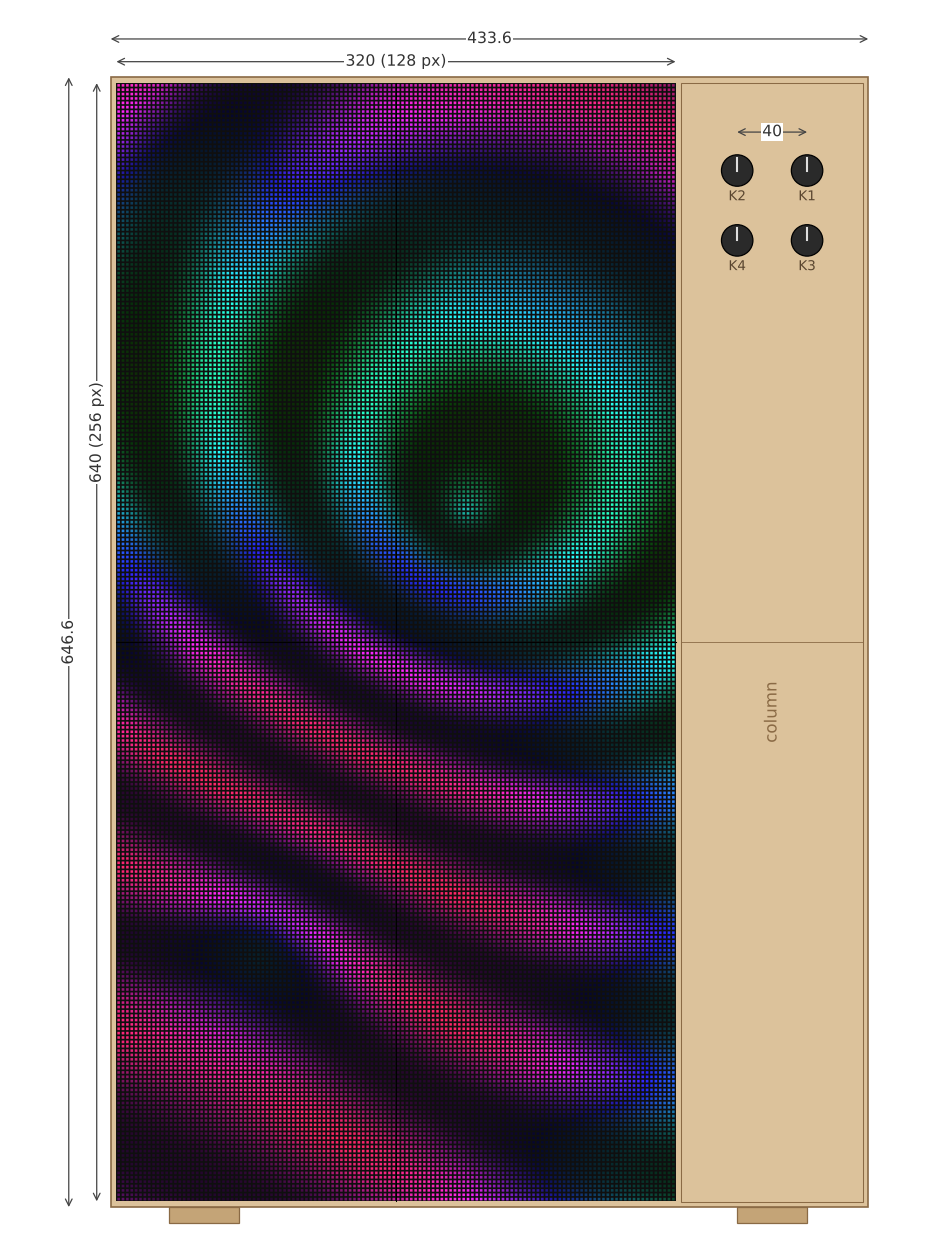
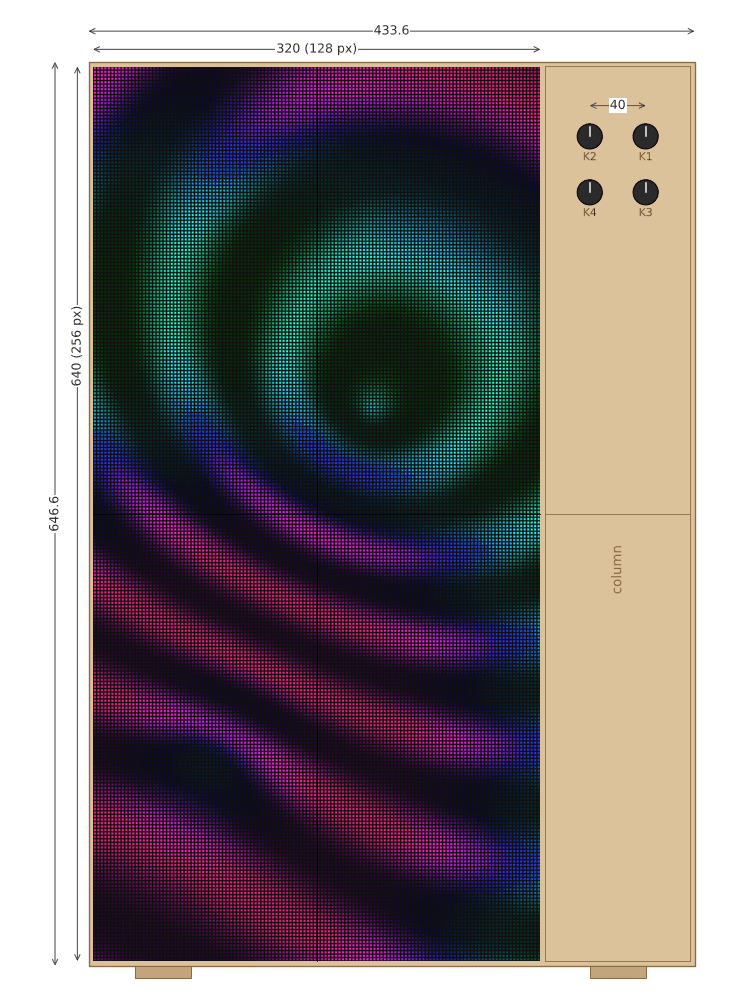
docs: README, BOM and map rows for the 2x2 case
Claude-Session: https://claude.ai/code/session_01S7a4vLmi28RsjdaHrYu6Dv

diff --git a/hardware/case/remixes/big-2x2/source/previews.py b/hardware/case/remixes/big-2x2/source/previews.py
@@ -95,8 +95,12 @@ def front(b, path):
     ax.set_aspect("equal")
     ax.axis("off")
     fig.tight_layout()
-    fig.savefig(path, dpi=150)
+    fig.savefig(path, dpi=120)
     plt.close(fig)
+    # 256 colours keep the LED texture and a third of the bytes (Pillow comes
+    # with matplotlib)
+    from PIL import Image
+    Image.open(path).convert("RGB").quantize(256, dither=Image.Dither.NONE).save(path, optimize=True)
 
 
 def _wire(ax, pts, color, lw=1.2, z=8, ls="-"):

diff --git a/hardware/case/remixes/big-2x2/README.md b/hardware/case/remixes/big-2x2/README.md
@@ -1,0 +1,125 @@
+Author: Patternflow, https://patternflow.work
+License: CC-BY-SA-4.0
+Based on: Patternflood desktop Rev 2.7 by jof, https://github.com/jof/patternflood (CC BY-SA 4.0)
+Fits: no Patternflow board; four 320 × 160 mm P2.5 panels driven by a Raspberry Pi 5 with a Colorlight 5A-75B
+Material: 3 mm plywood, laser cut, 0.15 mm kerf compensated; eight 600 × 300 mm sheets
+Verified: not built yet. Drawn 2026-11-07, and `source/check.py` measures the cut files against the panel's drawing
+
+# Patternflow 2 × 2
+
+<img src="images/front.png" alt="The box from the front: four panels in a 2 × 2, 320 wide and 640 tall, lit with a pattern of waves, and a plywood column on the right with four knobs at its top" width="42%"> <img src="images/back.png" alt="The box from the back with the cover off: the rails across the panels, the electronics plate in the middle with the Pi, the card and the fuse box, the supply and the inlet in the column" width="55%">
+
+Four of the panels the [build guide](../../../../BUILD_GUIDE.md#1-bill-of-materials-bom) links, two across and two down. That is 320 × 640 mm of LEDs, 256 × 128 of them, twice the stock Patternflow in each direction. The box stands the way the stock one does: panels upright, and a column on the right with the four knobs at its top. It is 433.6 mm wide, 646.6 tall and 81 deep, on two feet 200 mm long.
+
+It started from [Patternflood](https://github.com/jof/patternflood), jof's desktop build: four P2 64 × 64 panels in a laser-cut birch box 256 mm square, run by a Raspberry Pi 5 and a Colorlight 5A-75B card off mains. This one keeps those electronics. What four 128 × 64 panels change is drawn again here: where everything sits, how much power it takes, and the box around it.
+
+Nothing here has been cut. The drawings are checked against the panel's own drawing (the last section), and the first build is the one that says whether they fit.
+
+## Files
+
+| Path | What |
+| --- | --- |
+| `sheets/sheet-1.dxf` to `sheet-8.dxf` | The box, every part nested on eight 600 × 300 mm sheets. The `.svg` beside each has the same cuts in red and the part names in blue, in a group not to cut |
+| `sheets/test-cuts.dxf` | Cut this first: a coupon with the box's holes, a slot with its key, and a template of one panel's back |
+| `dxf/` | One file per part: the box's 47 and the three test pieces. Each is drawn as seen from outside the box, or from the back for the parts behind the panels |
+| [`bom.csv`](bom.csv) | Everything to buy, fasteners included |
+| `images/` | The pictures on this page |
+| `source/big2x2.py` | Draws all of the above. `--thickness` and `--kerf` redraw it for your sheet and your laser |
+| `source/check.py` | Opens every DXF and measures it against the panel |
+
+<img src="images/sheets.png" alt="The eight sheets, each part outlined and named" width="100%">
+
+## The panels and the card
+
+Seen from the front, the panels are the stock Patternflow's panel turned upright, two side by side and two more below them. Each one gets its own HUB75 output on the card: upper left on `J5`, upper right `J8`, lower left `J4`, lower right `J1`, the map patternflood's card already has. A panel's IN and OUT connectors sit near its two short ends. Turn the top two so their IN is at the bottom, and the lower two so theirs is at the top, and every ribbon runs about 10 cm to the middle of the box, where the card is.
+
+The card runs receiver75, Jim Bailey's open gateware, which patternflood builds and flashes once over JTAG. It is written for two 64 × 64 panels on each connector, refreshed at 500 Hz. To the card a 128 × 64 panel is those two panels chained, so each connector here should show two of its slots, `2n − 1` and `2n`. This is the least proven part of the design. Patternflood lit P2 panels with FM6124 drivers on it, and nobody has lit this panel on it yet. Try one panel on the card before buying four.
+
+## Why a Raspberry Pi and not the Patternflow board
+
+256 × 128 is 32,768 points of light. [rfc-any-resolution.md](../../../../docs/rfc-any-resolution.md#28-the-limits) puts what one ESP32-S3 drives at 8,192 at colour depth 8, the stock panel's own memory, and this is four times that. The driver keeps two buffers of every row in internal DMA RAM, 2 × W × H × 8 bytes: 524,288 bytes here, against 98,708 bytes of internal heap free on the stock panel, measured on 2026-08-18. One chain of four panels also shifts 512 pixels a row, so the refresh falls from the stock 325 Hz to 16,000,000 / (12 × 16,384) = 81 Hz. That flickers, and it bands on any phone.
+
+The card has eight outputs and drives them all at once, so four panels refresh as fast as one. The Pi has the gigabit Ethernet the card needs on its own board.
+
+What this gives up is the firmware. A `.pfm` module is ESP32-S3 machine code and does not run on a Pi, and the web console, OSC, MIDI and MQTT live in the firmware. [rfc-linux-player.md](../../../../docs/rfc-linux-player.md) is the plan for patterns on a Pi, and the Firmware section below lists what 256 × 128 needs from it. Until then, patternflood's own software runs here with a bigger frame map.
+
+## Knobs
+
+Four Adafruit 4991 I²C breakouts, each with the stock `PEC11R-4220F-S0024` soldered on, 24 detents a turn as on the board. Their bushings go through the column front in 7.2 mm holes on a 40 mm grid, and the nut that comes with each encoder clamps it from the front. A 3 mm doubler glued behind the front stiffens it, with a pocket for each encoder body. The stock printed knobs fit.
+
+| Knob | Where | 4991 address | Jumpers |
+| --- | --- | --- | --- |
+| K1 | top right | 0x37 | A0 |
+| K2 | top left | 0x38 | A1 |
+| K3 | bottom right | 0x39 | A0 + A1 |
+| K4 | bottom left | 0x3A | A2 |
+
+The places are the stock board's. Its encoders go in from the back, so `SW1`, on the left of the board's drawing, ends up on the right. The addresses are the range patternflood's tools look in. The four chain on STEMMA QT cables, and the last one runs to the Pi's header at 3.3 V through a 14 mm hole in the divider.
+
+## Power
+
+| Load | Draw |
+| --- | --- |
+| Four panels, each capped at 3.5 A a frame | 14 A |
+| Raspberry Pi 5 with the Active Cooler | 1.6 A, planned |
+| Colorlight 5A-75B | 0.8 A |
+| Four 4991s with their NeoPixels | 0.25 A |
+| In all | 16.7 A of the supply's 22 A |
+
+The stock panel draws about 1.9 A on an ordinary bright pattern and about 4.8 A on a white screen ([README, Power & runtime](../../../../README.md#power--runtime)). Four white screens and the boards come to about 22 A, all of a Mean Well LRS-150F-5, inside a closed box where its rating starts to fall at 40 °C. So whatever plays on it caps each frame's current before it goes out, as the stock firmware's power clamp does and as patternflood's renderer does. At 3.5 A a panel an ordinary pattern never meets the cap, and a white screen lands at about three quarters of full. The supply's hiccup mode is the backstop.
+
+Mains comes in through an IEC C14 inlet with a switch and a fuse, low on the right wall, and stays in the column: about 10 cm of 0.75 mm² wire to the supply's terminals. The fuse is time-delay, T3.15A at 220–240 V and T5A at 100–120 V. It is sized for the supply's 60 A cold-start inrush, not for its load, and a fast fuse trips at switch-on. As on patternflood, four things are not optional:
+
+1. A cover over the supply's input terminals. The back comes off with 28 screws, and L and N are open screws under it.
+2. Earth from the inlet to the supply's FG terminal.
+3. The time-delay fuse in the inlet.
+4. The mains leads tied down at the inlet, away from the 5 V side and the I²C lead.
+
+The supply lies on its side against the divider, base toward the front and terminals toward the back cover, with 41 mm of room above them for wiring. Two pairs of 1.5 mm² wire, one on each of its +V/−V terminal pairs, go through the divider to a 6-way blade fuse box with a negative bus on the electronics plate. That is the 5 V bus. It feeds the four panels through 7.5 A fuses on 0.75 mm² wire, the card through 3 A, and the Pi's USB-C pigtail through 5 A. The longest branch, to an upper panel, is about 50 cm and drops about 0.07 V at 3.5 A; the run to the fuse box drops another 0.08 V at full load. Trim the supply to 5.15 V measured at the fuse box, so the Pi sees at least 5.0 V. The pigtail does no USB-PD, so the Pi assumes a 3 A supply and warns: run `sudo rpi-eeprom-config -e` and add `PSU_MAX_CURRENT=5000`.
+
+This build has no Patternflow board in it, so the board's rule that `J4` is its only power input does not come into it.
+
+<img src="images/wiring.png" alt="Wiring: mains through the inlet to the LRS-150F-5, its 5 V to a 6-way fuse box, from there to the four panels, the card and the Pi; the Pi to the card over Ethernet and to the knobs over I²C; the card to the four panels over HUB75" width="100%">
+
+## The box
+
+<img src="images/section.png" alt="Two side sections: through the display, the panel, the rails, the rings, the plate with the Pi, the card and the fuse box, the stringers and the back cover; through the column, the knobs, the supply and the inlet" width="60%">
+
+Everything is 3 mm plywood. The four outer walls stand around the panels and the column, finger-jointed at the corners, and their front edges stand 3 mm proud of the LEDs to keep a knock off the panel edges. The left wall, the right wall and the divider between the panels and the column are each cut in two halves that meet at the middle, because 646 mm does not fit a 600 mm bed. The middle rail and the middle stringer pass through both halves of each and hold the joint.
+
+The panels hang on rails. Three run across the panel backs at the top, the middle and the bottom, each two sheets glued, through mortises in the left wall and the divider. The middle one goes on through the column to the right wall. Two more run down the vertical seam. M4 × 10 screws go through the rails into each panel's inserts: two at each short end, and four along the edge at the seam. The 3.48 mm pins on a panel's back drop into 5 mm holes in the seam rails. The screw holes are 6 mm slots, so each pair of panels can be pushed together before the screws are tightened. The seams are what shows most.
+
+Behind the middle of the panels, the electronics plate stands 12 mm off the rails on stacks of laser-cut rings, held by six M3 × 20 screws into nuts in the rails' front sheets. The card, the Pi and the fuse box go on its back face, components toward the back cover, where they can be reached with the cover off. The panel screws under the plate are reached with the plate off.
+
+The back cover is three pieces across the whole width, held by 28 M3 × 10 screws into nuts trapped in five stringers. A stringer is three sheets with the nuts in the middle one, and drops into notches in the back edges of the walls. Two feet, built the same way, screw on underneath from inside. Without them the box tips at about 7°; with them it takes about 17°. Air comes in through slots in the bottom wall and leaves through the top.
+
+## Cutting and building
+
+1. Measure the plywood in a few places. If it is not 3.0 mm, or your laser's kerf is not 0.15 mm, redraw everything with your numbers: `pip install -r source/requirements.txt`, then `python source/big2x2.py --thickness 3.18 --kerf 0.12`.
+2. Cut `sheets/test-cuts.dxf`. The key should push through the coupon's slot and hold, an M3 nut should sit in the hexagon, and the 7.2 mm hole should take the encoder's bushing without play. Lay the panel template on a panel's back: all twelve inserts should show through, and the two pins should drop into their holes. Then wire one panel to the card on the bench and get pixels on it.
+3. Cut the eight sheets. Label the parts as they come off; `images/sheets.png` names each one.
+4. Glue the layered parts: the rails, the seam rails, and the stringers and the feet with an M3 nut in each hexagon of their middle sheet. The rails' front sheets have nothing behind their nuts until the panels go on, so put a drop of glue on each.
+5. Build the box on its front. Thread the rails through the left wall halves and the divider halves, and the middle rail through the right wall halves too. Fit the column fronts into the divider and the right wall, with the doubler and the splice glued behind them. Then the top and bottom walls go on over the finger joints and the tabs. Drop the stringers into their notches, check that it is square, and glue.
+6. Panels in from the front, IN connectors toward the horizontal seam. Screw them to the rails with washers, pushing each pair together before tightening.
+7. The electronics plate: the card and the Pi on two rings a screw, then the fuse box, then the plate onto the rails.
+8. The column: the four knobs, the supply on the divider with two M3 × 6 (its side inserts take 5 mm at most), and the inlet.
+9. Wire it as the picture shows, with the ribbons last. Trim the supply to 5.15 V before the back goes on, and fit the feet.
+
+The supply's side inserts are taken from Mean Well's drawing, 22 and 139 mm from its terminal end, and the divider has holes for it both ways up. If neither set meets your supply, trust the supply and drill to it. The fuse box is held through two slots, since boxes differ.
+
+## Firmware
+
+What 256 × 128 asks of the software on this build:
+
+- receiver75's map is compiled for four 64 × 64 panels, one slot a connector (`QUADRANT_SLOTS` in its BIOS, and in patternflood's `r75_frame.py`). Here it is eight slots, two a connector, and a 256 × 128 canvas. The lower two panels are turned a half turn, so their slots are written rotated.
+- The current cap is patternflood's per-frame estimate with new numbers: 3.5 A a panel and 14 A in all, calibrated against one panel at full white on the card. The 4.8 A figure comes from the ESP32 driver, and the card may keep each row lit for longer.
+- `PatternRuntime` already takes a width and a height, and 46 of the 48 JS presets read the size from what `draw` is given ([rfc-linux-player.md §2.2](../../../../docs/rfc-linux-player.md#22-the-engine)). `DeviceSim` is the one place fixed at 128 × 64, through `PANEL_W` and `PANEL_H`. That change is k16 in [rfc-any-resolution.md](../../../../docs/rfc-any-resolution.md#26-the-site).
+- The Linux player's receiving-card output (rfc-linux-player.md §2.3, row 11) is written for the card's stock firmware: raw Ethernet frames that need `CAP_NET_RAW` and a helper program. With receiver75 on the card the frames are UDP, which Node's `dgram` sends on its own.
+- The knobs arrive on I²C, not USB. The player plans for a USB knob box (question 7 of that RFC), so it needs an I²C input for the 4991s, or patternflood's reader.
+- `.pfm` modules do not run here at all. The C++ presets do once compiled for the Pi, as patternflood does it, with `PANEL_RES_W` and `PANEL_RES_H` set to 256 and 128 for the presets that size their arrays by them.
+
+On the Patternflow board, every number in the section on why this build uses a Pi has to move first. The row buffers go to PSRAM (`SPIRAM_DMA_BUFFER`, never tried in this tree), the refresh floor comes down to what four panels in one chain can reach, the 2 × 2 remap comes from `ESP32-HUB75-VirtualMatrixPanel_T.hpp` (vendored, and included by nothing), and the module ABI's 128 × 64 opens up. That is a firmware project of its own.
+
+## Checking the files
+
+`python source/check.py` opens every DXF with ezdxf, runs its audit, and checks the units, the layer, and that every part fits a 600 × 300 bed. Then it redraws the box with no kerf and measures the parts that touch a panel against the panel's drawing, typed into the script again rather than imported. The end inserts are 85 apart, 75 across the seam and 11.5 from the edge; the edge inserts 91, 63 and 91 apart; the pins 140 apart; the opening 320.6 × 640.6 for panels of 320 and 640 each way. It also checks the knob grid, the Pi's 58 × 49, the card's holes against patternflood's measured template, the inlet's cutout, and that the shipped files are the nominal ones with the kerf applied. On 2026-11-07 it ended `all passed`.

diff --git a/docs/assembly/README.md b/docs/assembly/README.md
@@ -32,6 +32,7 @@ This is the route [BUILD_GUIDE.md](../../BUILD_GUIDE.md) walks start to finish, 
 | Laser-cut acrylic or MDF sheet | Custom PCB | Community — [`remixes/simonepda-lasercut/`](../../hardware/case/remixes/simonepda-lasercut/README.md), by Simone Majocchi. Built by its author in both materials; its README stands in for the printing and case-assembly sections of the build guide |
 | 3D printed, glued halves with screwed-on covers | Custom PCB | Community — [`remixes/besoiobiy-printed/`](../../hardware/case/remixes/besoiobiy-printed/README.md), by Besoiobiy. Built by its author; the panel is bolted through the case into its own M3 sockets, so check your panel's thread size and socket depth first. Its README stands in for the printing and case-assembly sections of the build guide and sets the wiring order |
 | 3D printed, horizontal on a desk, with stands | Custom PCB | Community — [`remixes/mbchars-horizontal-desktop-printed/`](../../hardware/case/remixes/mbchars-horizontal-desktop-printed/README.md), by Mykyta Bilous (mbchars). Built by its author; the panel lies the long way with the controls on the right, and there is no power-bank bay — a separate USB-PD trigger module feeds `J4`, the screw terminal, at 5 V. Its README and assembly notes stand in for the printing and case-assembly sections of the build guide |
+| Laser-cut plywood, four panels in a 2 × 2 | Raspberry Pi 5 and Colorlight 5A-75B, no Patternflow board | Drawn, not built: [`remixes/big-2x2/`](../../hardware/case/remixes/big-2x2/README.md). Twice the stock Patternflow each way, 256 × 128, after jof's Patternflood. It runs no Patternflow firmware; its README says why and what the software needs |
 | Any other enclosure | either | Not an official path. Community variants live in [`hardware/case/remixes/`](../../hardware/case/remixes/README.md); the old acrylic drawings, for the v1 and v2 boards, are in [`legacy_lasercut/`](../../hardware/case/legacy_lasercut/README.md) |
 
 The breadboard path exists to make Patternflow easier and cheaper to start. A breadboard build is not just a temporary prototype — if that form is enough for you, it is a valid Patternflow build. Want a more finished object later? Move to the PCB and printed-enclosure path whenever you like.

diff --git a/hardware/case/remixes/README.md b/hardware/case/remixes/README.md
@@ -11,6 +11,7 @@ Work in progress belongs in [Discord](https://discord.gg/Vr9QtsxeTk) (the hardwa
 | [`simonepda-lasercut/`](simonepda-lasercut/README.md) | Laser-cut from one sheet, 3 mm acrylic or 2.8 mm MDF; the panel screwed to it from behind, the board under a small finger-jointed box beside it, three cubes for feet | v3 board, 320 × 160 mm panel | Simone Majocchi (SimonePDA) |
 | [`besoiobiy-printed/`](besoiobiy-printed/README.md) | Printed in two long pieces glued side by side, a frame round the panel and a box for the board and the power bank, closed by four screwed-on covers; the panel is bolted through the case into its own M3 sockets, so check yours first | v3 board, 320 × 160 mm panel with M3 sockets | Besoiobiy |
 | [`mbchars-horizontal-desktop-printed/`](mbchars-horizontal-desktop-printed/README.md) | The panel lying the long way across on two removable stands, controls on the right; three front sections joined by bars on brass inserts, no glue needed. No power-bank bay: a separate USB-PD trigger module in the control section feeds `J4`, the screw terminal, at 5 V | v3 board, 320 × 160 mm panel | Mykyta Bilous (mbchars) |
+| [`big-2x2/`](big-2x2/README.md) | Four panels in a 2 × 2, 320 × 640 mm and 256 × 128, in a laser-cut plywood box with the knobs in a column on the right. A Raspberry Pi 5 and a Colorlight 5A-75B drive it, after Patternflood, so it holds no Patternflow board. Drawn and checked against the panel's drawing, not built yet | four 320 × 160 mm panels | Patternflow |
 
 Each README replaces the build guide's printing and case-assembly sections for that case, and says where its order of steps differs. The [/build](https://patternflow.work/build) page has all three on its case switch.
 
